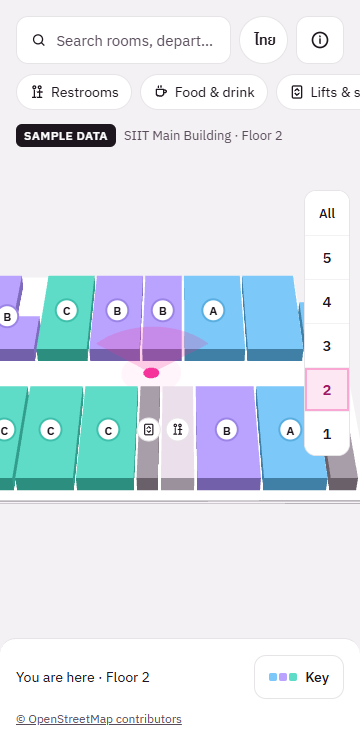
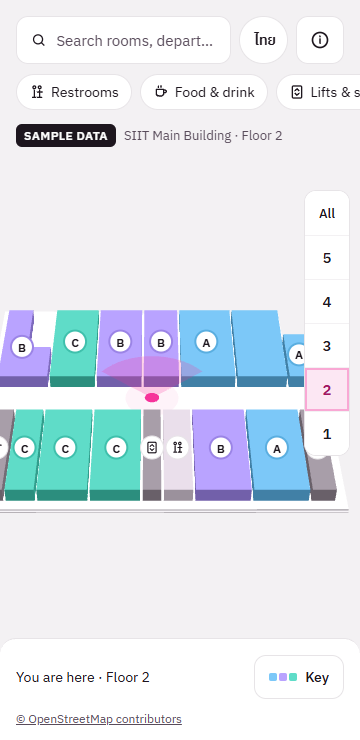
Fix round: full card keeps the map visible, free-area camera framing, English default, deep-link room tag

Changed region(s): [[0.0, 0.373, 1.0, 0.7149]]

diff --git a/src/scene/BuildingScene.tsx b/src/scene/BuildingScene.tsx
@@ -16,7 +16,12 @@ const ROOM_HEIGHT = 3
 const RISE = 0.3 // a selected room grows 30% taller
 const BIG_ROOM_AREA = 200 // m²: bigger rooms are always labelled in single-floor view
 const FOV = 40
-const PICKER_NUDGE = 0.16 // fraction of the view width
+// Screen space (px) taken by the chrome; the map is framed in what is left.
+const INSET_TOP = 150 // top bar, chips and status row
+const INSET_BOTTOM = 100 // bottom bar
+const INSET_LEFT = 8
+const INSET_RIGHT = 64 // floor picker
+const FULL_SHEET = 0.53 // the full room card covers the bottom 53% of the screen
 
 const outline = data.building.outline
 const bounds = outline.reduce(
@@ -165,7 +170,7 @@ function FloorLayer({ level }: { level: number }) {
               if (e.delta > 6 || anim.current.vis < 0.5) return // a drag, or a faded-out floor
               e.stopPropagation()
               const { selectedRoomId, selectRoom } = useAppStore.getState()
-              selectRoom(selectedRoomId === it.room.id ? null : it.room.id)
+              selectRoom(selectedRoomId === it.room.id ? null : it.room.id, { focus: selectedRoomId !== it.room.id })
             }}
           />
         </group>
@@ -209,6 +214,17 @@ function Selection() {
   const lineRef = useRef<THREE.Group>(null)
   const matRef = useRef<{ opacity: number } | null>(null)
   const tagRef = useRef<HTMLDivElement>(null)
+  // drei's Html drops its content when it mounts in the very first commit (a deep link opens
+  // with a room already chosen), so the tag waits one animation frame.
+  const invalidate = useThree((s) => s.invalidate)
+  const [tagReady, setTagReady] = useState(false)
+  useEffect(() => {
+    const raf = requestAnimationFrame(() => {
+      setTagReady(true)
+      invalidate()
+    })
+    return () => cancelAnimationFrame(raf)
+  }, [invalidate])
   useFrame((_, dt) => {
     const s = state.current
     s.raise = ease(s.raise, current ? 1 : 0, 12, dt)
@@ -236,9 +252,11 @@ function Selection() {
         transparent
         ref={(l) => { matRef.current = l ? (l.material as unknown as { opacity: number }) : null }}
       />
-      <Html position={[cx, 0.6, cz]} center zIndexRange={[20, 10]} style={{ pointerEvents: 'none' }}>
-        <div className="room-tag" ref={tagRef}>{room.number ?? room.name}</div>
-      </Html>
+      {tagReady && (
+        <Html position={[cx, 0.6, cz]} center zIndexRange={[20, 10]} style={{ pointerEvents: 'none' }}>
+          <div className="room-tag" ref={tagRef}>{room.number ?? room.name}</div>
+        </Html>
+      )}
     </group>
   )
 }
@@ -335,10 +353,13 @@ function Labels() {
   )
 }
 
-function fitDistance(radius: number, aspect: number) {
-  const vHalf = THREE.MathUtils.degToRad(FOV / 2)
-  const hHalf = Math.atan(Math.tan(vHalf) * aspect)
-  return radius / Math.tan(Math.min(vHalf, hHalf))
+/** Camera distance that fits a footprint of half-extents rx and ry (metres) into the free screen area. */
+function fitDistance(rx: number, ry: number, w: number, h: number) {
+  const tv = Math.tan(THREE.MathUtils.degToRad(FOV / 2))
+  const th = tv * (w / h)
+  const freeW = Math.max(120, w - INSET_LEFT - INSET_RIGHT)
+  const freeH = Math.max(160, h - INSET_TOP - INSET_BOTTOM)
+  return Math.max(rx / (th * (freeW / w)), ry / (tv * (freeH / h)))
 }
 
 function Rig() {
@@ -348,8 +369,8 @@ function Rig() {
   const view = useAppStore((s) => s.view)
   const ready = size.width > 0 && size.height > 0
   const aspect = ready ? size.width / size.height : 1
-  const allDist = fitDistance(halfWidth * 1.3 + 10, aspect)
-  const floorDist = fitDistance(halfWidth * 1.35 + 8, aspect)
+  const allDist = fitDistance(halfWidth * 1.15 + 1, 34, size.width || 1, size.height || 1)
+  const floorDist = fitDistance(halfWidth * 1.15 + 1, 26, size.width || 1, size.height || 1)
   const started = useRef(false)
   const zoomed = useRef(false)
 
@@ -371,7 +392,6 @@ function Rig() {
     c.minPolarAngle = 0.12
     c.maxPolarAngle = 1.5
     c.setBoundary(new THREE.Box3(new THREE.Vector3(bounds.minX - 10, -3, bounds.minZ - 10), new THREE.Vector3(bounds.maxX + 10, topElevation + 8, bounds.maxZ + 10)))
-    const nudge = (dist: number) => PICKER_NUDGE * dist * Math.tan(THREE.MathUtils.degToRad(FOV / 2)) * aspect
     const newFocus = focus !== null && focus.tick !== lastFocus.current
     // A resize re-runs this effect; it then repeats the last pose instead of picking a new one.
     const useFocus = newFocus || (kind.current === 'focus' && view === lastView.current)
@@ -380,30 +400,40 @@ function Rig() {
       // Glide to a search result or QR spot.
       lastFocus.current = focus.tick
       kind.current = 'focus'
-      const dist = floorDist * 0.6
+      const dist = floorDist * 0.72
       void c.rotateTo(focus.azimuth ?? (first ? 0.4 : c.azimuthAngle), 0.85, animate)
       void c.dollyTo(dist, animate)
       void c.moveTo(focus.x, elevationOf(focus.floor) + 1, focus.z, animate)
-      void c.setFocalOffset(nudge(dist), 0, 0, animate)
       return
     }
     kind.current = 'view'
     const single = view !== ('all' as FloorView)
-    void c.rotateTo(first ? 0.4 : c.azimuthAngle, single ? 0.8 : 1.0, animate)
+    void c.rotateTo(first ? 0.4 : c.azimuthAngle, single ? 0.8 : 0.85, animate)
     void c.dollyTo(single ? floorDist : allDist, animate)
     void c.moveTo(center.x, single ? elevationOf(view as number) + 1 : topElevation / 2 + 1, center.z, animate)
-    // Nudge the building left so the floor picker on the right doesn't cover it.
-    void c.setFocalOffset(nudge(single ? floorDist : allDist), 0, 0, animate)
     // eslint-disable-next-line react-hooks/exhaustive-deps -- floorDist and allDist follow aspect
   }, [attached, view, ready, aspect, focus])
 
-  useFrame(() => {
+  const offset = useRef({ x: 0, y: 0 })
+  useFrame(({ camera, size: sz }, dt) => {
     const c = ref.current
     if (!c) return
-    const near = c.distance < floorDist * 0.7
+    const near = c.distance < floorDist * 0.8
     if (near !== zoomed.current) {
       zoomed.current = near
       useAppStore.getState().setZoomedIn(near)
+    }
+    // Shift the picture so the map's centre is the centre of the free area (clear of the
+    // chrome, the sheet and the picker); eases when the sheet changes snap point.
+    const { selectedRoomId, snap, peekH } = useAppStore.getState()
+    const bottom = selectedRoomId ? (snap === 'full' ? sz.height * FULL_SHEET : peekH) : INSET_BOTTOM
+    const o = offset.current
+    const x = ease(o.x, (INSET_LEFT - INSET_RIGHT) / 2, 9, dt)
+    const y = ease(o.y, (INSET_TOP - bottom) / 2, 9, dt)
+    if ((x !== o.x || y !== o.y || !camera.view?.enabled) && camera instanceof THREE.PerspectiveCamera) {
+      o.x = x
+      o.y = y
+      camera.setViewOffset(sz.width, sz.height, -x, -y, sz.width, sz.height)
     }
   })
 

diff --git a/src/ui/RoomSheet.tsx b/src/ui/RoomSheet.tsx
@@ -6,12 +6,22 @@ import { useAppStore } from '../state/store'
 import { DeptBadge } from './DeptBadge'
 import { CloseIcon, PhotoIcon, ShareIcon } from './Icons'
 
+function Credit({ className = 'credit-line' }: { className?: string }) {
+  const t = useT()
+  return (
+    <a className={className} href="https://www.openstreetmap.org/copyright" target="_blank" rel="noreferrer">
+      {t('osmCredit')}
+    </a>
+  )
+}
+
 export function RoomSheet() {
   const t = useT()
   const lang = useAppStore((s) => s.lang)
   const id = useAppStore((s) => s.selectedRoomId)
   const snap = useAppStore((s) => s.snap)
   const setSnap = useAppStore((s) => s.setSnap)
+  const setPeekHStore = useAppStore((s) => s.setPeekH)
   const selectRoom = useAppStore((s) => s.selectRoom)
   const showNotice = useAppStore((s) => s.showNotice)
   const room = id ? roomById.get(id) : undefined
@@ -24,12 +34,15 @@ export function RoomSheet() {
   useLayoutEffect(() => {
     const el = head.current
     if (!el) return
-    const measure = () => setPeekH(el.offsetHeight)
+    const measure = () => {
+      setPeekH(el.offsetHeight)
+      if (useAppStore.getState().snap === 'peek') setPeekHStore(el.offsetHeight)
+    }
     measure()
     const ro = new ResizeObserver(measure)
     ro.observe(el)
     return () => ro.disconnect()
-  }, [room?.id])
+  }, [room?.id, snap, setPeekHStore])
 
   // Scroll the full card back to the top when another room opens.
   useEffect(() => {
@@ -130,25 +143,28 @@ export function RoomSheet() {
         ) : (
           <span className="hint-btn spacer" aria-hidden="true" />
         )}
-        <a className="credit-line" href="https://www.openstreetmap.org/copyright" target="_blank" rel="noreferrer">
-          {t('osmCredit')}
-        </a>
+        {snap === 'peek' && <Credit />}
       </div>
 
+      {snap === 'full' && <Credit className="credit-float" />}
       <div className="sheet-body" inert={snap === 'peek'}>
-        <div className="photo-ph">
-          <PhotoIcon />
-          <span>{t('noPhoto')}</span>
+        <div className="sheet-intro">
+          <div className="photo-ph">
+            <PhotoIcon />
+            <span>{t('noPhoto')}</span>
+          </div>
+          <div className="sheet-intro-text">
+            {other && <p className="room-other">{other}</p>}
+            <dl className="details">
+              {details.map(([k, v]) => v && (
+                <div key={k} className="detail">
+                  <dt>{k}</dt>
+                  <dd>{v}</dd>
+                </div>
+              ))}
+            </dl>
+          </div>
         </div>
-        {other && <p className="room-other">{other}</p>}
-        <dl className="details">
-          {details.map(([k, v]) => v && (
-            <div key={k} className="detail">
-              <dt>{k}</dt>
-              <dd>{v}</dd>
-            </div>
-          ))}
-        </dl>
         {room.description && <p className="body-text">{room.description}</p>}
         {dept && (
           <button type="button" className="action-btn" onClick={() => go(`/dept/${dept.id}`)}>

diff --git a/src/state/store.ts b/src/state/store.ts
@@ -36,6 +36,8 @@ interface AppState {
   view: FloorView
   selectedRoomId: string | null
   snap: Snap
+  /** Height (px) of the peek card, so the map can be framed above it. */
+  peekH: number
   /** True when the camera is close enough to show small-room labels. */
   zoomedIn: boolean
   lang: Lang
@@ -54,6 +56,7 @@ interface AppState {
   /** Selecting a room also switches to its floor. */
   selectRoom: (id: string | null, opts?: { focus?: boolean; cross?: boolean; snap?: Snap }) => void
   setSnap: (snap: Snap) => void
+  setPeekH: (px: number) => void
   setZoomedIn: (zoomedIn: boolean) => void
   setLang: (lang: Lang) => void
   openSearch: (filter?: TypeFilter | null) => void
@@ -69,15 +72,15 @@ interface AppState {
 let tick = 0
 
 function loadLang(): Lang {
-  const saved = readStore('siit-map.lang')
-  if (saved === 'th' || saved === 'en') return saved
-  return typeof navigator !== 'undefined' && navigator.language?.toLowerCase().startsWith('th') ? 'th' : 'en'
+  // English by default (PLAN.md); only a remembered choice changes it.
+  return readStore('siit-map.lang') === 'th' ? 'th' : 'en'
 }
 
 export const useAppStore = create<AppState>((set, get) => ({
   view: 'all',
   selectedRoomId: null,
   snap: 'peek',
+  peekH: 130,
   zoomedIn: false,
   lang: loadLang(),
   searchOpen: false,
@@ -119,6 +122,7 @@ export const useAppStore = create<AppState>((set, get) => ({
   },
 
   setSnap: (snap) => set({ snap }),
+  setPeekH: (peekH) => set({ peekH }),
   setZoomedIn: (zoomedIn) => set({ zoomedIn }),
   setLang: (lang) => {
     writeStore('siit-map.lang', lang)

diff --git a/src/index.css b/src/index.css
@@ -277,6 +277,14 @@ a {
   overflow: hidden;
 }
 
+.floor-picker.compact {
+  top: calc(120px + env(safe-area-inset-top));
+}
+
+.floor-picker.compact .floor-btn {
+  height: 36px;
+}
+
 .floor-btn {
   position: relative;
   width: 44px;
@@ -451,7 +459,7 @@ a {
   left: 0;
   right: 0;
   bottom: 0;
-  height: min(88dvh, 720px);
+  height: 53dvh; /* the full card leaves the map visible above it */
   display: flex;
   flex-direction: column;
   background: var(--surface);
@@ -575,8 +583,32 @@ a {
   visibility: hidden;
 }
 
+.credit-float {
+  position: absolute;
+  left: 12px;
+  bottom: calc(100% + 4px);
+  font-size: 12px;
+  color: var(--muted);
+}
+
+.sheet-intro {
+  display: flex;
+  gap: 14px;
+  align-items: flex-start;
+}
+
+.sheet-intro-text {
+  flex: 1;
+  min-width: 0;
+  display: flex;
+  flex-direction: column;
+  gap: 8px;
+}
+
 .photo-ph {
-  height: 150px;
+  width: 96px;
+  height: 96px;
+  text-align: center;
   flex-shrink: 0;
   border-radius: 12px;
   background: var(--ph);
@@ -604,7 +636,7 @@ a {
 
 .detail {
   display: grid;
-  grid-template-columns: 84px minmax(0, 1fr);
+  grid-template-columns: 64px minmax(0, 1fr);
   gap: 12px;
   font-size: 14px;
 }

diff --git a/src/ui/MapChrome.tsx b/src/ui/MapChrome.tsx
@@ -79,6 +79,8 @@ export function FloorPicker() {
   const view = useAppStore((s) => s.view)
   const previous = useAppStore((s) => s.previousFloor)
   const setView = useAppStore((s) => s.setView)
+  // The full room card covers the lower part of the screen, so the picker packs tighter above it.
+  const compact = useAppStore((s) => s.snap === 'full' && s.selectedRoomId !== null)
   const options: { value: FloorView; label: string; aria: string }[] = [
     { value: 'all', label: t('all'), aria: t('allFloors') },
     ...[...data.floors].reverse().map((f) => ({
@@ -88,7 +90,7 @@ export function FloorPicker() {
     })),
   ]
   return (
-    <div className="floor-picker" role="group" aria-label={t('floors')}>
+    <div className={compact ? 'floor-picker compact' : 'floor-picker'} role="group" aria-label={t('floors')}>
       {options.map((o) => (
         <button key={o.value} type="button" className={o.value === view ? 'floor-btn on' : 'floor-btn'} aria-label={o.aria} aria-pressed={o.value === view} onClick={() => setView(o.value)}>
           {o.label}

diff --git a/docs/ai-handoffs/week1-viewer-report.md b/docs/ai-handoffs/week1-viewer-report.md
@@ -128,4 +128,34 @@ Scope: brief tasks 3 and 4, plus the orchestrator's additions: demand rendering,
 
 Real traced floors and department data, real photos, the review of the label threshold, a real-device performance and touch check, GoatCounter code, the report form link and the group name in `src/config.ts`, and the Thai polish with `kien-thai`.
 
+(Run B verdict: DONE. The fix round below follows.)
+
+## Run B fix round, 2026-10-29, Sonnet 5.5
+
+Four review points from the orchestrator. Same branch, not pushed.
+
+### What changed
+
+1. **Full room card keeps the map visible.** The sheet is now 53% of the screen height, so at full the card top sits at about 47% (398 px of 844, 348 px of 740). The body follows the Room artboard: 96 px photo thumbnail beside the details, then the description and the Department details button; long content scrolls inside the sheet. The OSM credit left the card header: while the card is full it floats just above the sheet edge on the map (always visible, still links to the copyright page); in peek it stays in the card. At full the floor picker packs tighter (36 px buttons, moved up) so floor 1 is not hidden behind the card. That is below the 44 px touch target, only while the full card is open.
+2. **Camera framing.** The old picker nudge is gone. The camera now uses a view offset that centres the map in the free area: below the top bar, chips and status row, above the bottom bar or the peek card or the full card, left of the picker. The offset eases when the card changes snap point. The fit distance is computed from the free width and height. Tapping a room on the map now also focuses it (as search does), so the room is framed in the free area above the card. The stacked view is tilted a little more from above (polar 0.85) and fills the free width; on a portrait phone the near-square building is width-limited, so a band of empty space above and below remains. I tried a lower azimuth to widen the fill, but the lower floors then ran off the left edge, so I kept 0.4. The room focus distance is a bit wider (0.72 of the floor distance) so more of the floor shows around the room.
+3. **Language default.** English unless a remembered choice is saved. Checked with a `th-TH` browser: first visit is English; after switching to Thai and a reload it stays Thai.
+4. **Empty rows.** Confirmed: Hours and Contact rows render only when the data has a value, and none of the sample rooms have one, so no `[HOURS]` placeholder can appear. The card shows only Where.
+
+### Bug found and fixed on the way
+
+The selected room's number tag (the black "2-06" label) was missing when a page opened directly on a room link (`#/room/<id>`), because drei's `Html` loses its content when it mounts in the very first commit. It now mounts one animation frame later. Tap and search selections were not affected.
+
+### Checks
+
+- `npm run lint`: pass. `npm test`: 22 pass. `npm run build`: pass (the 995 kB scene chunk warning remains).
+- Screenshots retaken at 390×844 and 360×740 for all 22 steps (`docs/ai-handoffs/week1/b01…b22`), including the changed ones: b01, b02, b03, b04, b07, b09, b13, b14, b15, b21. I looked at b01, b03, b04, b09, b13, b14, b15, b21 and the 360×740 pair of b01, b04, b14, b15.
+- Full card at 360×740: sheet top at 348 px, the picker ends at about 337 px.
+
+### Open problems
+
+- The room name can break at the hyphen ("Sample Meeting Room 2-" / "06") on a narrow card.
+- Still not tested on a real phone or GPU.
+- The picker's compact 36 px buttons below the 44 px target (full card only).
+
 Verdict: DONE
+
